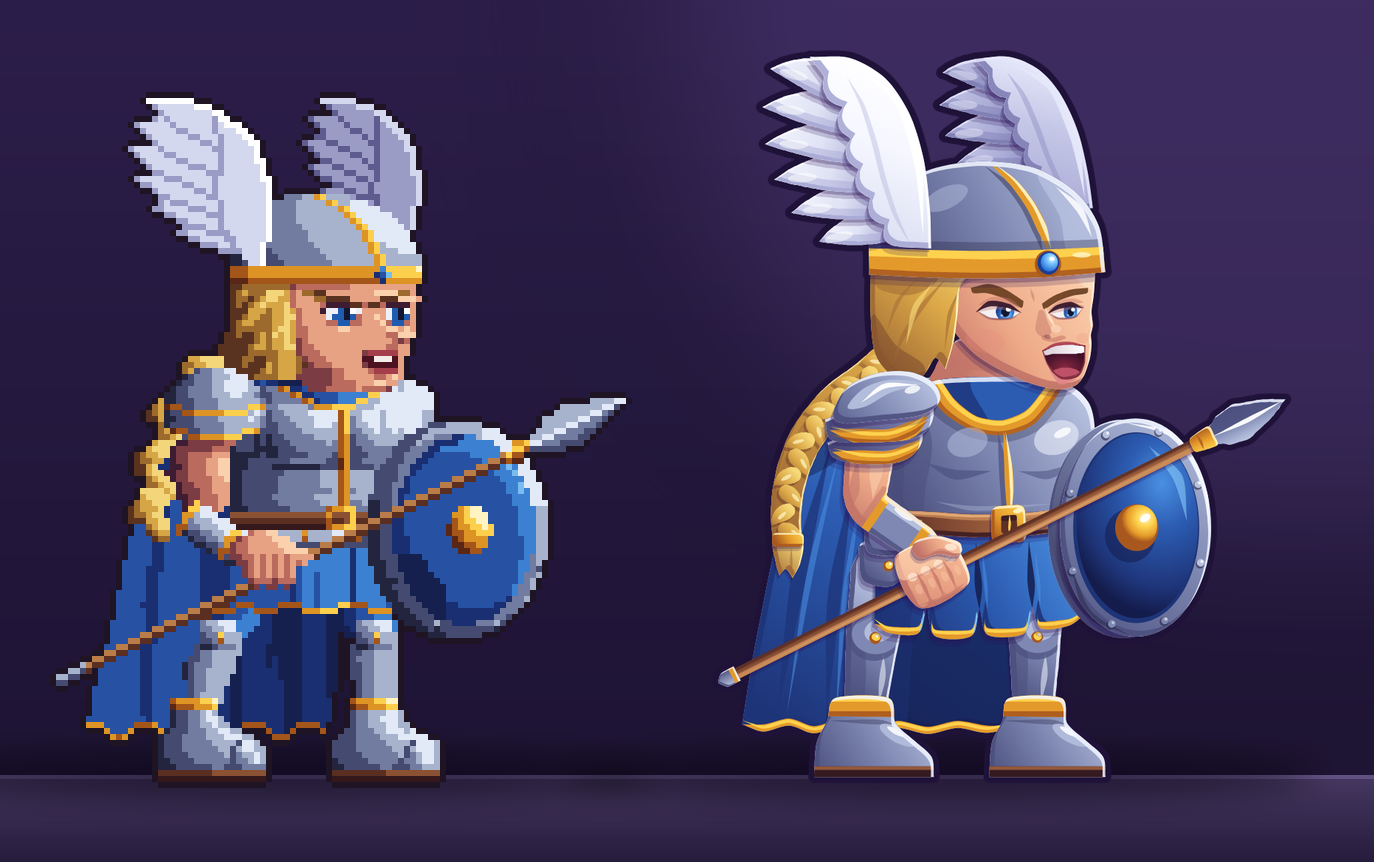
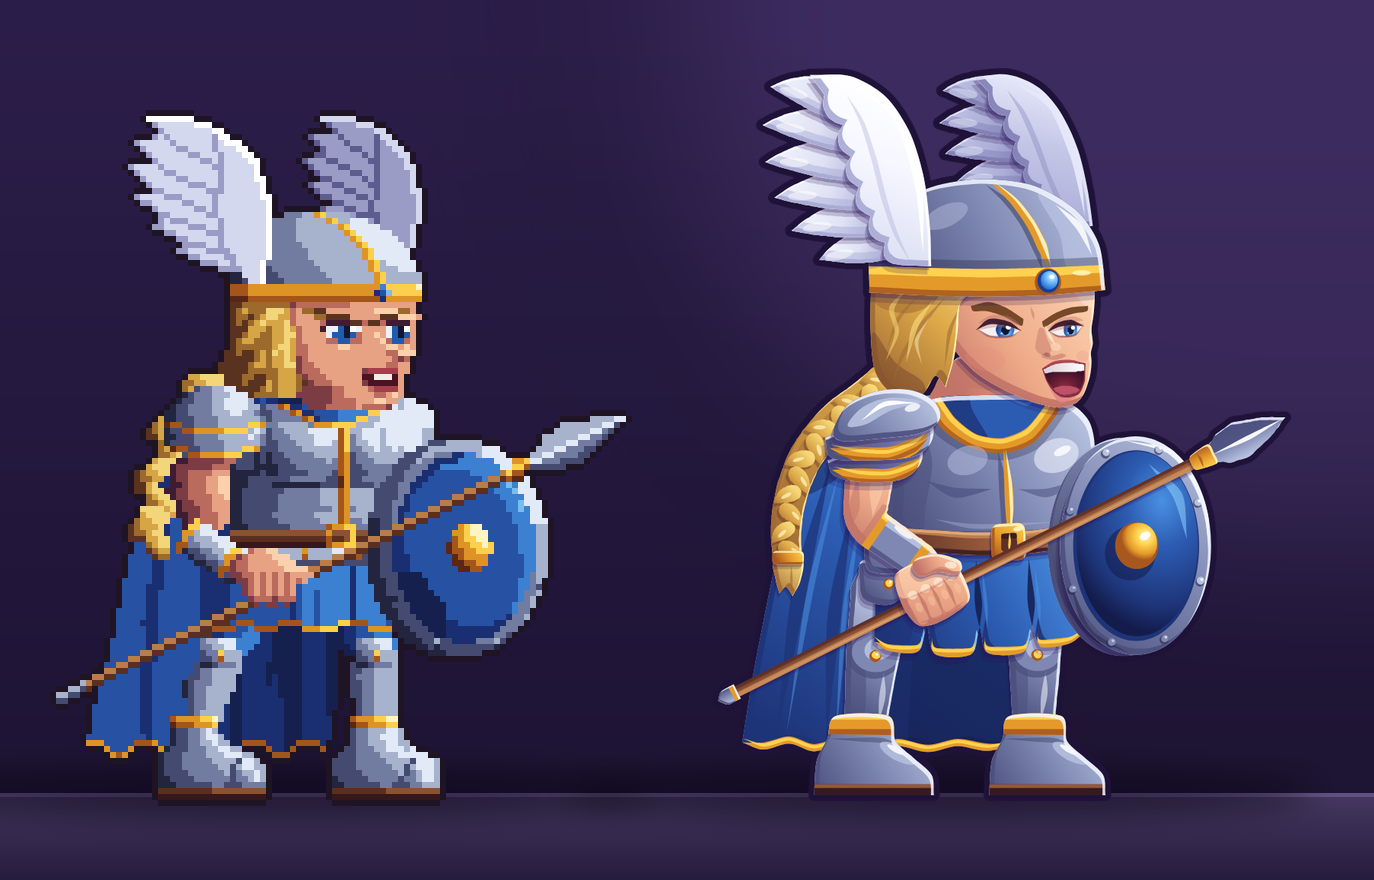
Vecto : travail en cours
Claude-Session: https://claude.ai/code/session_01StTiAZjvnzYLiVPjaUWZHe

diff --git a/refonte-graphique/ui-moderne/heros/arcan/arcan.py b/refonte-graphique/ui-moderne/heros/arcan/arcan.py
@@ -184,7 +184,7 @@ def build(ow=0.95, pose=None, fx=None, frame=FRAME):
 
     # ---- le bras lointain (gauche), derrière le buste ; son poing sur le col du sac ----
     arm(fig, 'f', SF, EF, WF, far=True)
-    fist(fig, 'f', GF, P['fa'], +1, far=True)
+    fist(fig, 'f', GF, P['fa'], +1, far=True, neck=outline[I_FAR], P=P)
 
     # ---- les jambes arquées, pieds à plat ----
     leg(fig, 'f', mapp(U, HF0), KF0, AF0, LEG, far=True)
@@ -196,9 +196,7 @@ def build(ow=0.95, pose=None, fx=None, frame=FRAME):
     loincloth(fig, P, U)
     # ---- le bras proche (droit), devant le buste ----
     arm(fig, 'n', SN, EN, WN, far=False)
-    if not front_bag or m < 0.5:
-        pass
-    fist(fig, 'n', GN, P['na'], -1, far=False)
+    fist(fig, 'n', GN, P['na'], -1, far=False, neck=outline[0] if m < 0.5 else None, P=P)
     # ---- la tête ----
     head(fig, P, HEAD)
     if front_bag:
@@ -349,8 +347,7 @@ def neck_parts(fig, P, outline, m, GN, GF, uN, uF, bu, only=None):
         E = lerp(GN, tip_end, m) if hold > 0.5 or m > 0 else tip_end
         fig.part('nneck', neck_tube(A, E, 5.4, 4.4, bow=0.8 * (1 - m)), CANVAS, cel=1.0, rim=0.6, cast=0.6,
                  details=[(ribbon([lerp(A, E, 0.15), lerp(A, E, 0.5), lerp(A, E, 0.8)], [0.1, 0.7, 0.1]), CANVAS.shadow, 0.45)])
-        ang = P['nend'] if m <= 0 else (P['nend'] + (ang_of(bu) - P['nend'] + 180) % 360 - 180) if m >= 1 else \
-            P['nend'] + (((ang_of(bu) - P['nend'] + 180) % 360) - 180) * m
+        ang = P['nend'] + (((ang_of(bu) - P['nend'] + 180) % 360) - 180) * m
         ctx['end_n'] = frilled(fig, 'nend', E, ang, P['nopen'], 1.0)
         ctx['end_ndir'] = ang
         if m > 0.5:
@@ -441,12 +438,12 @@ def arm(fig, s, S, E, W, far):
                    [(0, SKIN.light), (0.5, SKIN.base), (1, SKIN.shadow)]))
 
 
-def fist(fig, s, G, ang, side, far):
+def fist(fig, s, G, ang, side, far, neck=None, P=None):
     """Le poing serré sur le col : quatre doigts repliés en rouleaux, le pouce par-dessus, les phalanges à l'extérieur ;
     le bracelet d'or au poignet (il cache la jonction avec l'avant-bras), le cordon d'or sur le col juste au-dessus."""
     k = 0.94 if far else 1.0
     F = frame_of(G, ang)
-    o = -side            # q > 0 : vers l'extérieur (gauche pour le poing proche, droite pour le lointain)
+    o = side             # q > 0 : vers l'extérieur (gauche pour le poing proche, droite pour le lointain)
     Q = lambda p, q: F(p * k, q * k * o)
     body = sm([Q(6.2, -4.6), Q(6.6, 0.5), Q(5.4, 5.2), Q(0, 6.4), Q(-5.0, 5.6), Q(-6.4, 1.0), Q(-6.0, -4.4), Q(-2.0, -6.2), Q(3.0, -6.0)], t=0.9)
     det = []
@@ -472,6 +469,10 @@ def fist(fig, s, G, ang, side, far):
                       (ribbon([Q(-7.6, -5.4), Q(-7.9, 0), Q(-7.6, 5.4)], [0.1, 0.7, 0.1]), GOLD.shadow, 0.7),
                       (ellipse(*Q(-6.5, 2.6), 0.9, 0.9), GOLD.hi, 0.6)])
     fig.ctx[s + 'fist'] = G
+    if neck is not None:
+        # le cordon d'or noué sur le col, juste au-dessus du poing
+        d = norm(sub(neck, G))
+        cord(fig, s + 'cord', add(G, d, 7.0 * k), d, 4.8, P, side)
 
 
 def leg(fig, s, H, K0, A0, LEG, far):
